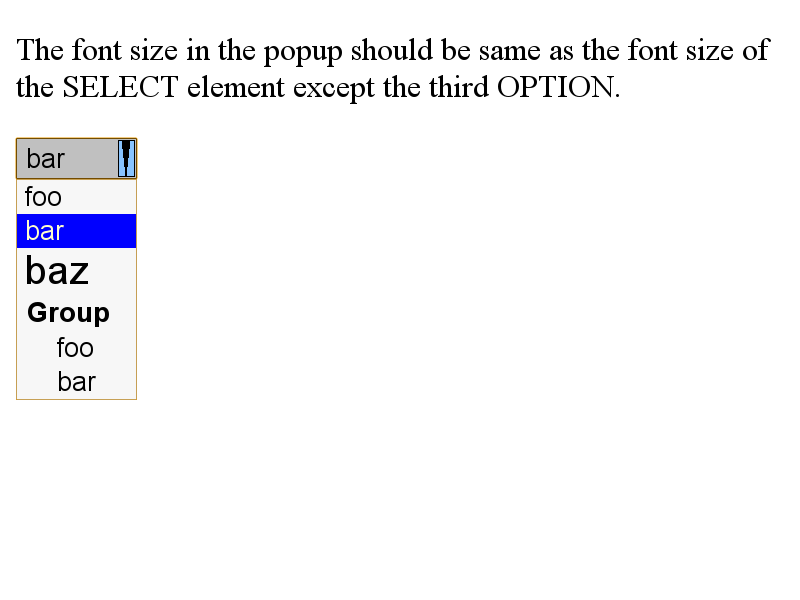
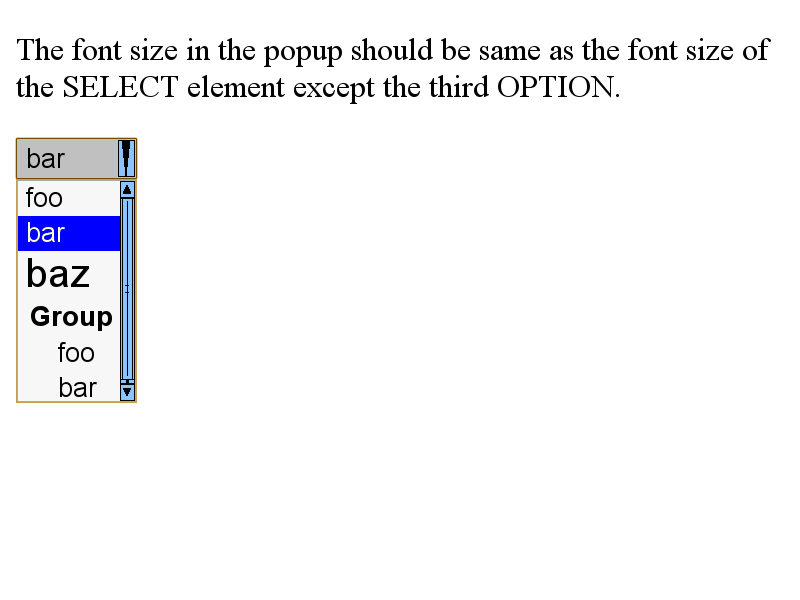
Page popups should respect zoom factor of the anchor element.
If the element is in non-100% zoom level, popups associated to the element
should be in the same zoom level.

This CL affects the following popups:
 - Calendar popups for input[type=date], input[type=month], input[type=
   datetime-local], and input[type=week]
 - Suggestion popups for them and input[type=time].
 - Color suggestion popup

Note that the behavior of select popups on Windows, Linux, and CrOs should not
be changed by this CL because it already respects the zoom level.

Note: Updates of existing tests:

* popup-menu-appearance-styled.html
  Because we pass a font-size in float, not int.

* popup-menu-appearance-zoom.html
  The popup border is correctly zoomed.
  The scrollbar is unexpected and I couldn't find the reason why
  the scrollbar was shown.  However, chrome and content_shell
  doesn't show such scrollbar.  So, this is not a production
  issue.

* popup-menu-load-webfont-after-open.html
  Because we pass a font-size in float, not int.
  The popup position in -expected.png is an error of my local
  machine, I think.

BUG=555326

Review URL: https://codereview.chromium.org/1454613002

Cr-Original-Commit-Position: refs/heads/master@{#361756}
Cr-Mirrored-From: https://chromium.googlesource.com/chromium/src
Cr-Mirrored-Commit: 575d1deb85ba41095599809f83dc08ffce9fd443

Changed region(s): [[0.0312, 0.3, 0.1875, 0.69]]

diff --git a/WebKit/Source/web/resources/pickerCommon.js b/WebKit/Source/web/resources/pickerCommon.js
@@ -89,19 +89,20 @@ Rectangle.intersection = function(rect1, rect2) {
 };
 
 /**
- * @param {!number} width
- * @param {!number} height
+ * @param {!number} width in CSS pixel
+ * @param {!number} height in CSS pixel
  */
 function resizeWindow(width, height) {
-    setWindowRect(adjustWindowRect(width, height, width, height));
+    var zoom = global.params.zoomFactor ? global.params.zoomFactor : 1;
+    setWindowRect(adjustWindowRect(width * zoom, height * zoom, width * zoom, height * zoom));
 }
 
 /**
- * @param {!number} width
- * @param {!number} height
- * @param {?number} minWidth
- * @param {?number} minHeight
- * @return {!Rectangle}
+ * @param {!number} width in physical pixel
+ * @param {!number} height in physical pixel
+ * @param {?number} minWidth in physical pixel
+ * @param {?number} minHeight in physical pixel
+ * @return {!Rectangle} Adjusted rectangle with physical pixels
  */
 function adjustWindowRect(width, height, minWidth, minHeight) {
     if (typeof minWidth !== "number")
@@ -123,6 +124,9 @@ function adjustWindowRect(width, height, minWidth, minHeight) {
     return windowRect;
 }
 
+/**
+ * Arguments are physical pixels.
+ */
 function _adjustWindowRectVertically(windowRect, availRect, anchorRect, minHeight) {
     var availableSpaceAbove = anchorRect.y - availRect.y;
     availableSpaceAbove = Math.max(0, Math.min(availRect.height, availableSpaceAbove));
@@ -140,6 +144,9 @@ function _adjustWindowRectVertically(windowRect, availRect, anchorRect, minHeigh
     }
 }
 
+/**
+ * Arguments are physical pixels.
+ */
 function _adjustWindowRectHorizontally(windowRect, availRect, anchorRect, minWidth) {
     windowRect.width = Math.min(windowRect.width, availRect.width);
     windowRect.width = Math.max(windowRect.width, minWidth);
@@ -152,7 +159,7 @@ function _adjustWindowRectHorizontally(windowRect, availRect, anchorRect, minWid
 }
 
 /**
- * @param {!Rectangle} rect
+ * @param {!Rectangle} rect Window position and size with physical pixels.
  */
 function setWindowRect(rect) {
     if (window.frameElement) {

diff --git a/WebKit/Source/web/resources/listPicker.js b/WebKit/Source/web/resources/listPicker.js
@@ -223,16 +223,17 @@ ListPicker.prototype._fixWindowSize = function() {
         desiredWindowWidth += getScrollbarWidth();
         expectingScrollbar = true;
     }
-    desiredWindowWidth = Math.max(this._config.anchorRectInScreen.width, desiredWindowWidth);
-    var windowRect = adjustWindowRect(desiredWindowWidth, desiredWindowHeight, this._selectElement.offsetWidth, 0);
+    var zoom = this._config.zoomFactor;
+    desiredWindowWidth = Math.max(this._config.anchorRectInScreen.width / zoom, desiredWindowWidth);
+    var windowRect = adjustWindowRect(desiredWindowWidth * zoom, desiredWindowHeight * zoom, this._selectElement.offsetWidth * zoom, 0);
     // If the available screen space is smaller than maxHeight, we will get an unexpected scrollbar.
-    if (!expectingScrollbar && windowRect.height < noScrollHeight) {
-        desiredWindowWidth = windowRect.width + getScrollbarWidth();
+    if (!expectingScrollbar && windowRect.height < noScrollHeight * zoom) {
+        desiredWindowWidth = windowRect.width + getScrollbarWidth() * zoom;
         windowRect = adjustWindowRect(desiredWindowWidth, windowRect.height, windowRect.width, windowRect.height);
     }
-    this._selectElement.style.width = windowRect.width + "px";
-    this._selectElement.style.height = windowRect.height + "px";
-    this._element.style.height = windowRect.height + "px";
+    this._selectElement.style.width = (windowRect.width / zoom) + "px";
+    this._selectElement.style.height = (windowRect.height / zoom) + "px";
+    this._element.style.height = (windowRect.height / zoom) + "px";
     setWindowRect(windowRect);
 };
 

diff --git a/WebKit/LayoutTests/fast/forms/color/color-suggestion-picker-appearance-zoom125.html b/WebKit/LayoutTests/fast/forms/color/color-suggestion-picker-appearance-zoom125.html
@@ -1,0 +1,52 @@
+<!DOCTYPE html>
+<html>
+<head>
+<script>
+window.enablePixelTesting = true;
+</script>
+<script src="../../../resources/js-test.js"></script>
+<script src="../../forms/resources/picker-common.js"></script>
+</head>
+<body style="zoom: 1.25;">
+<p>Suggestion picker should respect zoom level.</p>
+<input type=color id=color value="#ff0000" list=gray focus>
+<datalist id=gray>
+    <option>#ffffff</option>
+    <option>#eeeeee</option>
+    <option>#dddddd</option>
+    <option>#cccccc</option>
+    <option>#bbbbbb</option>
+    <option>#aaaaaa</option>
+    <option>#999999</option>
+    <option>#888888</option>
+    <option>#777777</option>
+    <option>#666666</option>
+    <option>#555555</option>
+    <option>#444444</option>
+    <option>#333333</option>
+    <option>#222222</option>
+    <option>#111111</option>
+    <option>#000000</option>
+    <option>#F00</option> <!--invalid-->
+    <option>red</option> <!--invalid-->
+</datalist>
+
+<p id="description" style="opacity: 0"></p>
+<div id="console" style="opacity: 0"></div>
+
+<script>
+openPicker(document.getElementById('color'), test);
+
+function test() {
+    popupWindow.focus();
+    eventSender.keyDown('downArrow');
+    eventSender.keyDown('downArrow');
+    eventSender.keyDown('downArrow');
+    eventSender.keyDown('leftArrow');
+    eventSender.keyDown('upArrow');
+    eventSender.keyDown('rightArrow');
+    finishJSTest();
+}
+</script>
+</body>
+</html>

diff --git a/WebKit/LayoutTests/fast/forms/color/color-suggestion-picker-appearance-zoom200.html b/WebKit/LayoutTests/fast/forms/color/color-suggestion-picker-appearance-zoom200.html
@@ -1,0 +1,52 @@
+<!DOCTYPE html>
+<html>
+<head>
+<script>
+window.enablePixelTesting = true;
+</script>
+<script src="../../../resources/js-test.js"></script>
+<script src="../../forms/resources/picker-common.js"></script>
+</head>
+<body style="zoom: 2;">
+<p>Suggestion picker should respect zoom level.</p>
+<input type=color id=color value="#ff0000" list=gray focus>
+<datalist id=gray>
+    <option>#ffffff</option>
+    <option>#eeeeee</option>
+    <option>#dddddd</option>
+    <option>#cccccc</option>
+    <option>#bbbbbb</option>
+    <option>#aaaaaa</option>
+    <option>#999999</option>
+    <option>#888888</option>
+    <option>#777777</option>
+    <option>#666666</option>
+    <option>#555555</option>
+    <option>#444444</option>
+    <option>#333333</option>
+    <option>#222222</option>
+    <option>#111111</option>
+    <option>#000000</option>
+    <option>#F00</option> <!--invalid-->
+    <option>red</option> <!--invalid-->
+</datalist>
+
+<p id="description" style="opacity: 0"></p>
+<div id="console" style="opacity: 0"></div>
+
+<script>
+openPicker(document.getElementById('color'), test);
+
+function test() {
+    popupWindow.focus();
+    eventSender.keyDown('downArrow');
+    eventSender.keyDown('downArrow');
+    eventSender.keyDown('downArrow');
+    eventSender.keyDown('leftArrow');
+    eventSender.keyDown('upArrow');
+    eventSender.keyDown('rightArrow');
+    finishJSTest();
+}
+</script>
+</body>
+</html>

diff --git a/WebKit/LayoutTests/fast/forms/suggestion-picker/date-suggestion-picker-appearance-zoom125.html b/WebKit/LayoutTests/fast/forms/suggestion-picker/date-suggestion-picker-appearance-zoom125.html
@@ -1,0 +1,39 @@
+<!DOCTYPE html>
+<html>
+<head>
+<script>
+window.enablePixelTesting = true;
+</script>
+<script src="../../../resources/js-test.js"></script>
+<script src="../../forms/resources/picker-common.js"></script>
+<script src="resources/suggestion-picker-common.js"></script>
+</head>
+<body style="zoom: 1.25; background-color: #eeffff;">
+<p>Suggestion picker should respect zoom level.</p>
+<script src="resources/suggestion-picker-common.js"></script>
+<input type=date id=date value="2014-10-30" list="suggestions" style="width: 200px;">
+<datalist id=suggestions>
+    <option>2012-01-00</option> <!--invalid-->
+    <option>foo</option> <!--invalid-->
+    <option label="Today">2012-01-01</option>
+    <option label="Tomorrow">2012-01-02</option>
+    <option>2012-01-03</option>
+    <option>2012-01-04</option>
+    <option>2012-01-05</option>
+    <option>2012-01-06</option>
+</datalist>
+
+<p id="description" style="opacity: 0"></p>
+<div id="console" style="opacity: 0"></div>
+
+<script>
+openPicker(document.getElementById('date'), finishTest);
+
+function finishTest() {
+    popupWindow.focus();
+    eventSender.keyDown('downArrow');
+    finishJSTest();
+}
+</script>
+</body>
+</html>

diff --git a/WebKit/LayoutTests/fast/forms/suggestion-picker/date-suggestion-picker-appearance-zoom200.html b/WebKit/LayoutTests/fast/forms/suggestion-picker/date-suggestion-picker-appearance-zoom200.html
@@ -1,0 +1,39 @@
+<!DOCTYPE html>
+<html>
+<head>
+<script>
+window.enablePixelTesting = true;
+</script>
+<script src="../../../resources/js-test.js"></script>
+<script src="../../forms/resources/picker-common.js"></script>
+<script src="resources/suggestion-picker-common.js"></script>
+</head>
+<body style="zoom: 2; background-color: #eeffff;">
+<p>Suggestion picker should respect zoom level.</p>
+<script src="resources/suggestion-picker-common.js"></script>
+<input type=date id=date value="2014-10-30" list="suggestions" style="width: 200px;">
+<datalist id=suggestions>
+    <option>2012-01-00</option> <!--invalid-->
+    <option>foo</option> <!--invalid-->
+    <option label="Today">2012-01-01</option>
+    <option label="Tomorrow">2012-01-02</option>
+    <option>2012-01-03</option>
+    <option>2012-01-04</option>
+    <option>2012-01-05</option>
+    <option>2012-01-06</option>
+</datalist>
+
+<p id="description" style="opacity: 0"></p>
+<div id="console" style="opacity: 0"></div>
+
+<script>
+openPicker(document.getElementById('date'), finishTest);
+
+function finishTest() {
+    popupWindow.focus();
+    eventSender.keyDown('downArrow');
+    finishJSTest();
+}
+</script>
+</body>
+</html>

diff --git a/WebKit/Source/web/resources/suggestionPicker.js b/WebKit/Source/web/resources/suggestionPicker.js
@@ -137,9 +137,10 @@ SuggestionPicker.prototype._measureMaxContentWidth = function() {
 
 SuggestionPicker.prototype._fixWindowSize = function() {
     var ListBorder = 2;
+    var zoom = this._config.zoomFactor;
     var desiredWindowWidth = this._measureMaxContentWidth() + ListBorder;
     if (typeof this._config.inputWidth === "number")
-        desiredWindowWidth = Math.max(this._config.inputWidth, desiredWindowWidth);
+        desiredWindowWidth = Math.max(this._config.inputWidth / zoom, desiredWindowWidth);
     var totalHeight = ListBorder;
     var maxHeight = 0;
     var entryCount = 0;
@@ -159,8 +160,8 @@ SuggestionPicker.prototype._fixWindowSize = function() {
         this._containerElement.style.overflowY = "scroll";
     }
 
-    var windowRect = adjustWindowRect(desiredWindowWidth, desiredWindowHeight, desiredWindowWidth, 0);
-    this._containerElement.style.height = (windowRect.height - ListBorder) + "px";
+    var windowRect = adjustWindowRect(desiredWindowWidth * zoom, desiredWindowHeight * zoom, desiredWindowWidth * zoom, 0);
+    this._containerElement.style.height = (windowRect.height / zoom - ListBorder) + "px";
     setWindowRect(windowRect);
 };
 

diff --git a/WebKit/LayoutTests/fast/forms/calendar-picker/calendar-picker-appearance-zoom125.html b/WebKit/LayoutTests/fast/forms/calendar-picker/calendar-picker-appearance-zoom125.html
@@ -1,0 +1,20 @@
+<!DOCTYPE html>
+<html>
+<head>
+<script>
+window.enablePixelTesting = true;
+</script>
+<script src="../../../resources/js-test.js"></script>
+<script src="../../forms/resources/picker-common.js"></script>
+<script src="resources/calendar-picker-common.js"></script>
+</head>
+<body style="zoom: 1.25">
+<p>Calendar picker should respect zoom level.</p>
+<input type=date id=date value="2013-01-10">
+<p id="description" style="opacity: 0"></p>
+<div id="console" style="opacity: 0"></div>
+<script>
+openPicker(document.getElementById('date'), finishJSTest);
+</script>
+</body>
+</html>

diff --git a/WebKit/LayoutTests/fast/forms/calendar-picker/calendar-picker-appearance-zoom200.html b/WebKit/LayoutTests/fast/forms/calendar-picker/calendar-picker-appearance-zoom200.html
@@ -1,0 +1,20 @@
+<!DOCTYPE html>
+<html>
+<head>
+<script>
+window.enablePixelTesting = true;
+</script>
+<script src="../../../resources/js-test.js"></script>
+<script src="../../forms/resources/picker-common.js"></script>
+<script src="resources/calendar-picker-common.js"></script>
+</head>
+<body style="zoom: 2">
+<p>Calendar picker should respect zoom level.</p>
+<input type=date id=date value="2013-01-10">
+<p id="description" style="opacity: 0"></p>
+<div id="console" style="opacity: 0"></div>
+<script>
+openPicker(document.getElementById('date'), finishJSTest);
+</script>
+</body>
+</html>

diff --git a/WebKit/Source/web/PopupMenuImpl.cpp b/WebKit/Source/web/PopupMenuImpl.cpp
@@ -188,7 +188,7 @@ public:
         addProperty("backgroundColor", m_backgroundColor.serialized(), m_buffer);
         addProperty("color", baseStyle().visitedDependentColor(CSSPropertyColor).serialized(), m_buffer);
         addProperty("textTransform", String(textTransformToString(baseStyle().textTransform())), m_buffer);
-        addProperty("fontSize", baseFont().computedPixelSize(), m_buffer);
+        addProperty("fontSize", baseFont().specifiedSize(), m_buffer);
         addProperty("fontStyle", String(fontStyleToString(baseFont().style())), m_buffer);
         addProperty("fontVariant", String(fontVariantToString(baseFont().variant())), m_buffer);
 
@@ -289,10 +289,12 @@ void PopupMenuImpl::writeDocument(SharedBuffer* data)
     context.finishGroupIfNecessary();
     PagePopupClient::addString("],\n", data);
 
+    float zoom = zoomFactor();
     addProperty("anchorRectInScreen", anchorRectInScreen, data);
+    addProperty("zoomFactor", zoom, data);
     bool isRTL = !ownerStyle->isLeftToRightDirection();
     addProperty("isRTL", isRTL, data);
-    addProperty("paddingStart", isRTL ? ownerElement.clientPaddingRight().toDouble() : ownerElement.clientPaddingLeft().toDouble(), data);
+    addProperty("paddingStart", isRTL ? ownerElement.clientPaddingRight().toDouble() / zoom : ownerElement.clientPaddingLeft().toDouble() / zoom, data);
     PagePopupClient::addString("};\n", data);
     data->append(Platform::current()->loadResource("pickerCommon.js"));
     data->append(Platform::current()->loadResource("listPicker.js"));
@@ -324,8 +326,11 @@ void PopupMenuImpl::addElementStyle(ItemIterationContext& context, HTMLElement& 
         addProperty("backgroundColor", backgroundColor.serialized(), data);
     const FontDescription& baseFont = context.baseFont();
     const FontDescription& fontDescription = style->font().fontDescription();
-    if (baseFont.computedPixelSize() != fontDescription.computedPixelSize())
-        addProperty("fontSize", fontDescription.computedPixelSize(), data);
+    if (baseFont.computedPixelSize() != fontDescription.computedPixelSize()) {
+        // We don't use FontDescription::specifiedSize() because this element
+        // might have its own zoom level.
+        addProperty("fontSize", fontDescription.computedSize() / zoomFactor(), data);
+    }
     // Our UA stylesheet has font-weight:normal for OPTION.
     if (FontWeightNormal != fontDescription.weight())
         addProperty("fontWeight", String(fontWeightToString(fontDescription.weight())), data);

diff --git a/WebKit/Source/web/ColorChooserPopupUIController.cpp b/WebKit/Source/web/ColorChooserPopupUIController.cpp
@@ -112,6 +112,7 @@ void ColorChooserPopupUIController::writeDocument(SharedBuffer* data)
     PagePopupClient::addProperty("values", suggestionValues, data);
     PagePopupClient::addProperty("otherColorLabel", locale().queryString(WebLocalizedString::OtherColorLabel), data);
     addProperty("anchorRectInScreen", anchorRectInScreen, data);
+    addProperty("zoomFactor", zoomFactor(), data);
     PagePopupClient::addString("};\n", data);
     data->append(Platform::current()->loadResource("pickerCommon.js"));
     data->append(Platform::current()->loadResource("colorSuggestionPicker.js"));

diff --git a/WebKit/Source/core/page/PagePopupClient.cpp b/WebKit/Source/core/page/PagePopupClient.cpp
@@ -31,10 +31,20 @@
 #include "config.h"
 #include "core/page/PagePopupClient.h"
 
+#include "core/dom/NodeComputedStyle.h"
 #include "wtf/text/CharacterNames.h"
 #include "wtf/text/StringBuilder.h"
 
 namespace blink {
+
+float PagePopupClient::zoomFactor()
+{
+    if (const ComputedStyle* style = ownerElement().computedStyle())
+        return style->effectiveZoom();
+    if (LocalFrame* frame = ownerElement().document().frame())
+        return frame->pageZoomFactor();
+    return 1;
+}
 
 #define addLiteral(literal, data)    data->append(literal, sizeof(literal) - 1)
 
